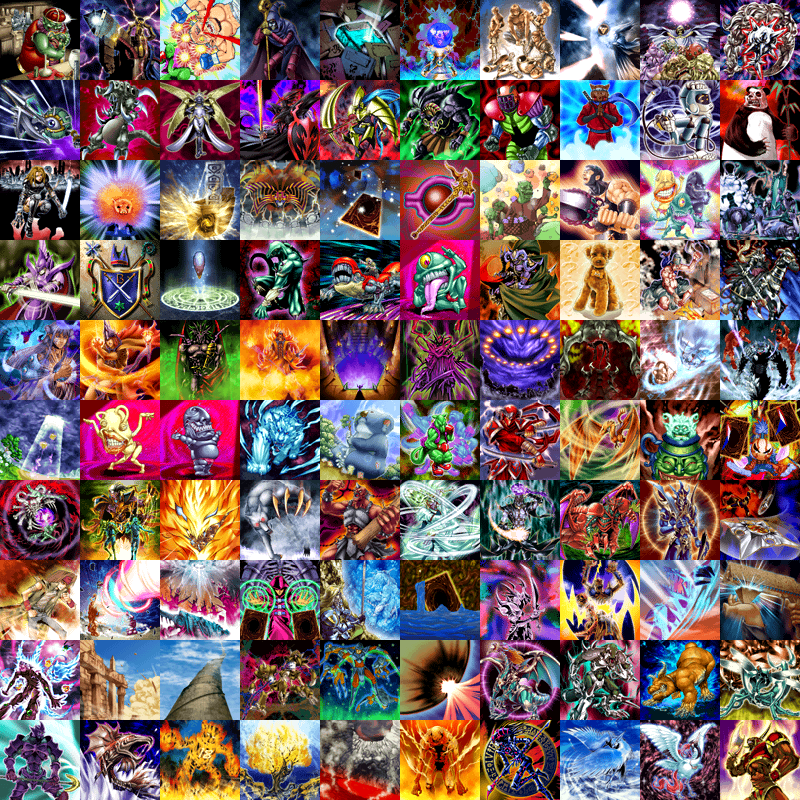
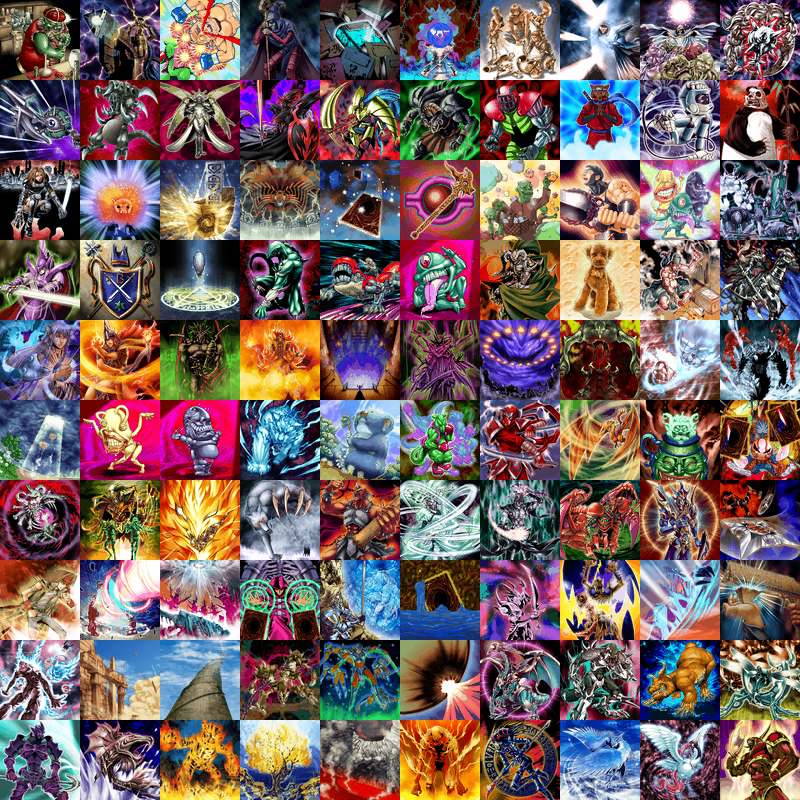
Every card's picture from YGOPRODeck's art
tools/build-extra-cards.py now redraws GX Duel Academy's 1200 cards'
pictures from YGOPRODeck's cropped art as well (80x80, 64 colours), so
they match the 754 cards beyond GX's; GX names that differ from the
TCG's are mapped (extra-cards.json's gxNames). The six cards GX made up
keep the cartridge's pictures.

Claude-Session: https://claude.ai/code/session_01Wr9PUg9SuLjc7FhJofs2fs

diff --git a/tools/build-extra-cards.py b/tools/build-extra-cards.py
@@ -12,8 +12,9 @@
 #     the Spell's or Trap's icon), added to its cards after GX's, between this tool's markers in data/items.js, with
 #     each one's rarity (YUGIOH_RARITY: its rarity in its pack) and the seven packs (YUGIOH_SETS);
 #   - their pictures, 80x80 in 64 colours as GX's are, on GX's sheets (assets/yugioh/cards/NN.png, a hundred to a
-#     sheet, ten across), from sheet 12 on (its first picture, card 1200's, kept).
-import json, os, sys, urllib.request
+#     sheet, ten across), from sheet 12 on; and GX's own cards' pictures redrawn the same way, so all look alike (by
+#     their TCG names: extra-cards.json's gxNames where GX's differ; the six GX made up keep GX's).
+import json, os, re, sys, urllib.request
 from PIL import Image
 
 ROOT = os.path.join(os.path.dirname(os.path.abspath(__file__)), '..')
@@ -69,21 +70,27 @@ a = s.find(START)
 s = s[:a] + js + s[s.index(END, a) + len(END):] if a >= 0 else s + js
 open(path, 'w', encoding='utf8').write(s)
 
-# ---------- Their pictures ----------
+# ---------- Their pictures, and GX's cards' ----------
 CARDS = os.path.join(ROOT, 'assets/yugioh/cards')
 last = FIRST + len(cards) - 1
-for sheet in range(FIRST // 100, last // 100 + 1):
+norm = lambda n: re.sub(r'[^a-z0-9]', '', n.lower())
+byNorm = {norm(c['name']): c for c in db}
+items = open(path, encoding='utf8').read()
+gx = json.loads(re.search(r'window\.YUGIOH_CARDS = (\{.*?\});\n', items, re.S).group(1))['cards'] if 'window.YUGIOH_CARDS = {' in items else None
+pics = {n: by[spec['cards'][n - FIRST]] for n in range(FIRST, last + 1)}
+for n, c in enumerate((gx or [])[:FIRST]):
+    if c and norm(spec['gxNames'].get(c[0], c[0])) in byNorm: pics[n] = byNorm[norm(spec['gxNames'].get(c[0], c[0]))]
+for sheet in range(0, last // 100 + 1):
     out = os.path.join(CARDS, '%02d.png' % sheet)
-    im = Image.open(out).convert('RGB') if sheet == FIRST // 100 and os.path.exists(out) else Image.new('RGB', (800, 800), (0, 0, 0))
-    if sheet != FIRST // 100: im = Image.new('RGB', (800, 800), (0, 0, 0))
+    im = Image.open(out).convert('RGB') if os.path.exists(out) else Image.new('RGB', (800, 800), (0, 0, 0))
     for k in range(100):
         n = sheet * 100 + k
-        if n < FIRST or n > last: continue
-        c = by[spec['cards'][n - FIRST]]
+        if n not in pics: continue
+        c = pics[n]
         art = Image.open(fetch(c['card_images'][0]['image_url_cropped'], os.path.join(CACHE, 'art', '%d.jpg' % c['id']))).convert('RGB')
         w, h = art.size; side = min(w, h)
         art = art.crop(((w - side) // 2, (h - side) // 2, (w - side) // 2 + side, (h - side) // 2 + side)).resize((80, 80), Image.LANCZOS)
         art = art.quantize(64, method=Image.MEDIANCUT, dither=Image.NONE).convert('RGB')   # (GX's 64 colours a picture)
         im.paste(art, (k % 10 * 80, k // 10 * 80))
     im.save(out, optimize=True)
-print('%d cards (%d to %d) in %d packs' % (len(cards), FIRST, last, len(spec['packs'])))
+print('%d cards (%d to %d) in %d packs; %d pictures' % (len(cards), FIRST, last, len(spec['packs']), len(pics)))

diff --git a/README.md b/README.md
@@ -3434,7 +3434,9 @@ python3 tools/build-extra-cards.py <cache directory>
 ```
 
 Into `data/items.js` between its own markers (the cards, their rarities and the packs, `window.YUGIOH_SETS`), and
-their pictures on sheets 12-19 of `assets/yugioh/cards/`. The packs' icons are `tools/build-domino-map.py`'s.
+their pictures on sheets 12-19 of `assets/yugioh/cards/`. It redraws GX's own 1200 cards' pictures from YGOPRODeck's
+art too, so every card looks alike (by their TCG names, the file's `gxNames` where GX's differ; the six GX made up
+keep the cartridge's). The packs' icons are `tools/build-domino-map.py`'s.
 
 `tools/build-reshef.py` does the same for Reshef of Destruction (the USA cartridge, AY8E: your own dump of it):
 
